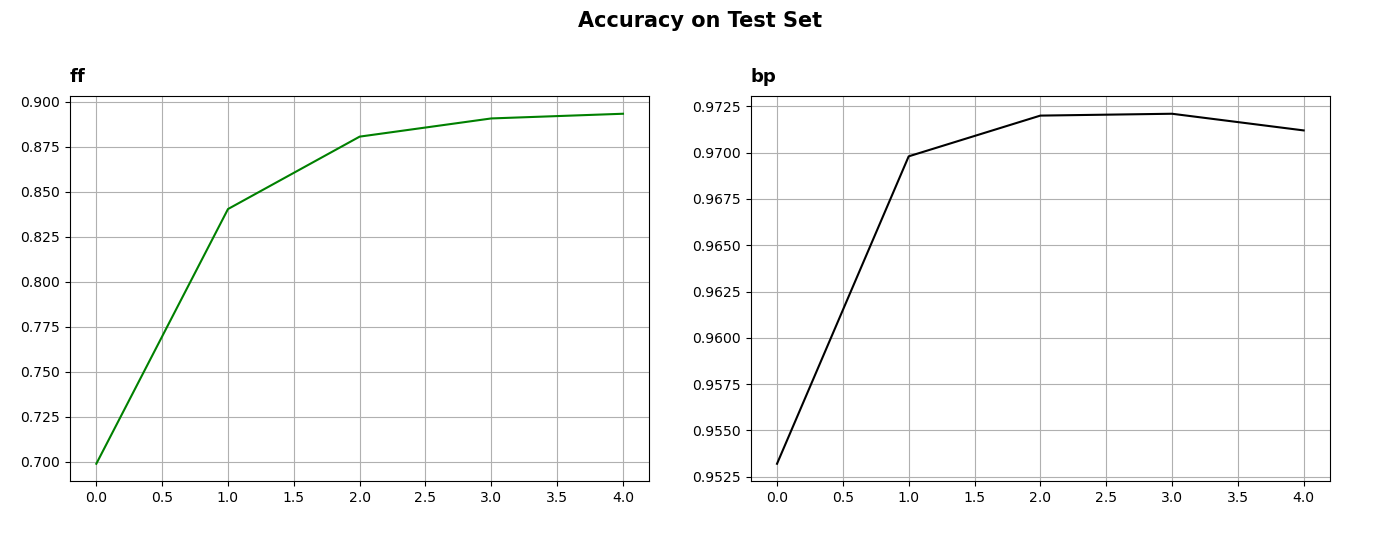
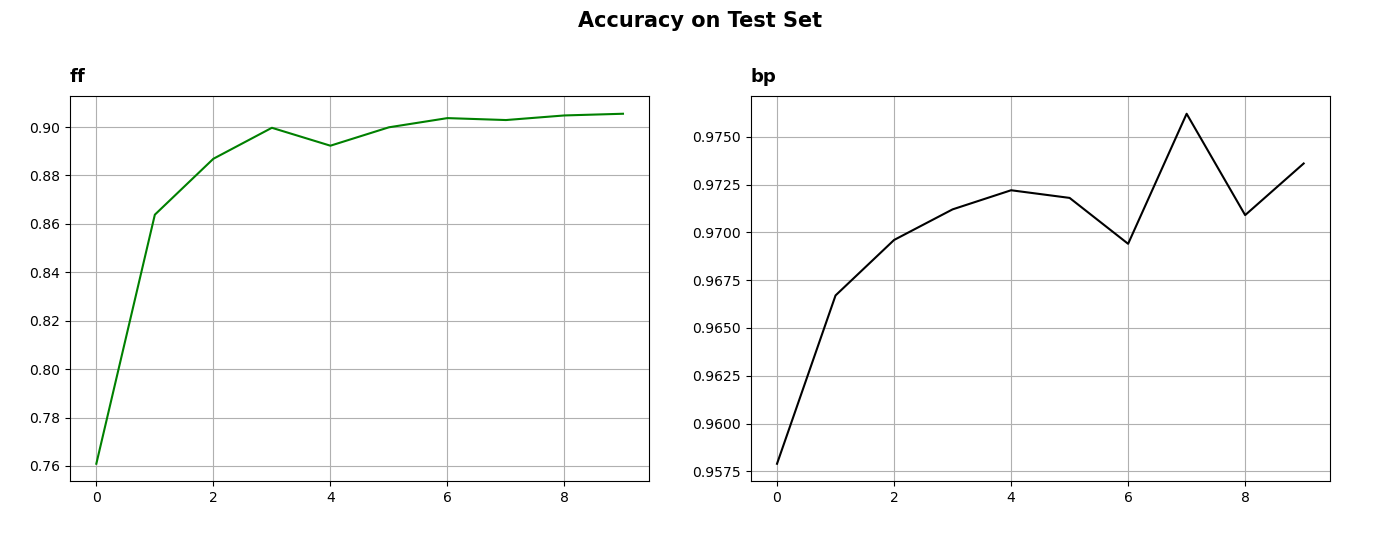
code done

diff --git a/main.py b/main.py
@@ -17,13 +17,22 @@ def get_args() -> argparse.Namespace:
     parser.add_argument('--mode', type=str, default='INFERENCE', choices=('INFERENCE', 'TRAIN'))
     parser.add_argument('--ff_dims', type=int, default=[28*28, 100, 10], nargs='+')
     parser.add_argument('--bp_dims', type=int, default=[28*28, 100, 10], nargs='+')
-    parser.add_argument('--epoch', type=int, default=5)
+    parser.add_argument('--epoch', type=int, default=10)
     parser.add_argument('--train_batch_size', type=int, default=16)
     parser.add_argument('--test_batch_size', type=int, default=256)
     parser.add_argument('--optimizer', type=str, default='SGD', choices=('SGD', 'ADAM'))
     parser.add_argument('--lr', type=float, default=0.1)
     parser.add_argument('--device', type=str, default='CUDA', choices=('CPU', 'CUDA'))
+    parser.add_argument('--seed', type=int, default=23)
     return parser.parse_args()
+
+def seed_everything(seed: int) -> None:
+    # random.seed(seed)
+    os.environ['PYTHONHASHSEED'] = str(seed)
+    torch.manual_seed(seed)
+    torch.cuda.manual_seed(seed)
+    torch.backends.cudnn.deterministic = True
+    torch.backends.cudnn.benchmark = True
 
 def print_set_info(args: argparse.Namespace) -> None:
     print('\n\n')
@@ -102,19 +111,19 @@ def inference(ff_model: Module, bp_model: Module, dataLoader: DataLoader, device
             ff_acces.extend(ff_acc)
             bp_acces.extend(bp_acc)
 
-            tqdm_loader.set_description(f'ff ACC({get_mean(ff_acc):.3f}), bp ACC({get_mean(bp_acc):.3f})')
+            tqdm_loader.set_description(f'ff ACC({get_mean(ff_acces):.3f}), bp ACC({get_mean(bp_acces):.3f})')
     return get_mean(ff_acces), get_mean(bp_acces)
 
 
 if __name__ == '__main__':
-    args = get_args()
     MODEL_HOME = './trained_model'
     FF_PATH = os.path.join(MODEL_HOME, 'ff_model.pk')
     BP_PATH = os.path.join(MODEL_HOME, 'bp_model.pk')
     FIGURE_HOME = './figures'
+    args = get_args()
     DEVICE = args.device.lower()
 
-
+    seed_everything(args.seed)
     print_set_info(args)
     ff_model = models.FFModel(dims=args.ff_dims, optimizer=get_optim(args), lr=args.lr, device=DEVICE)
     bp_model = models.BPModel(dims=args.bp_dims, optimizer=get_optim(args), lr=args.lr, device=DEVICE)
